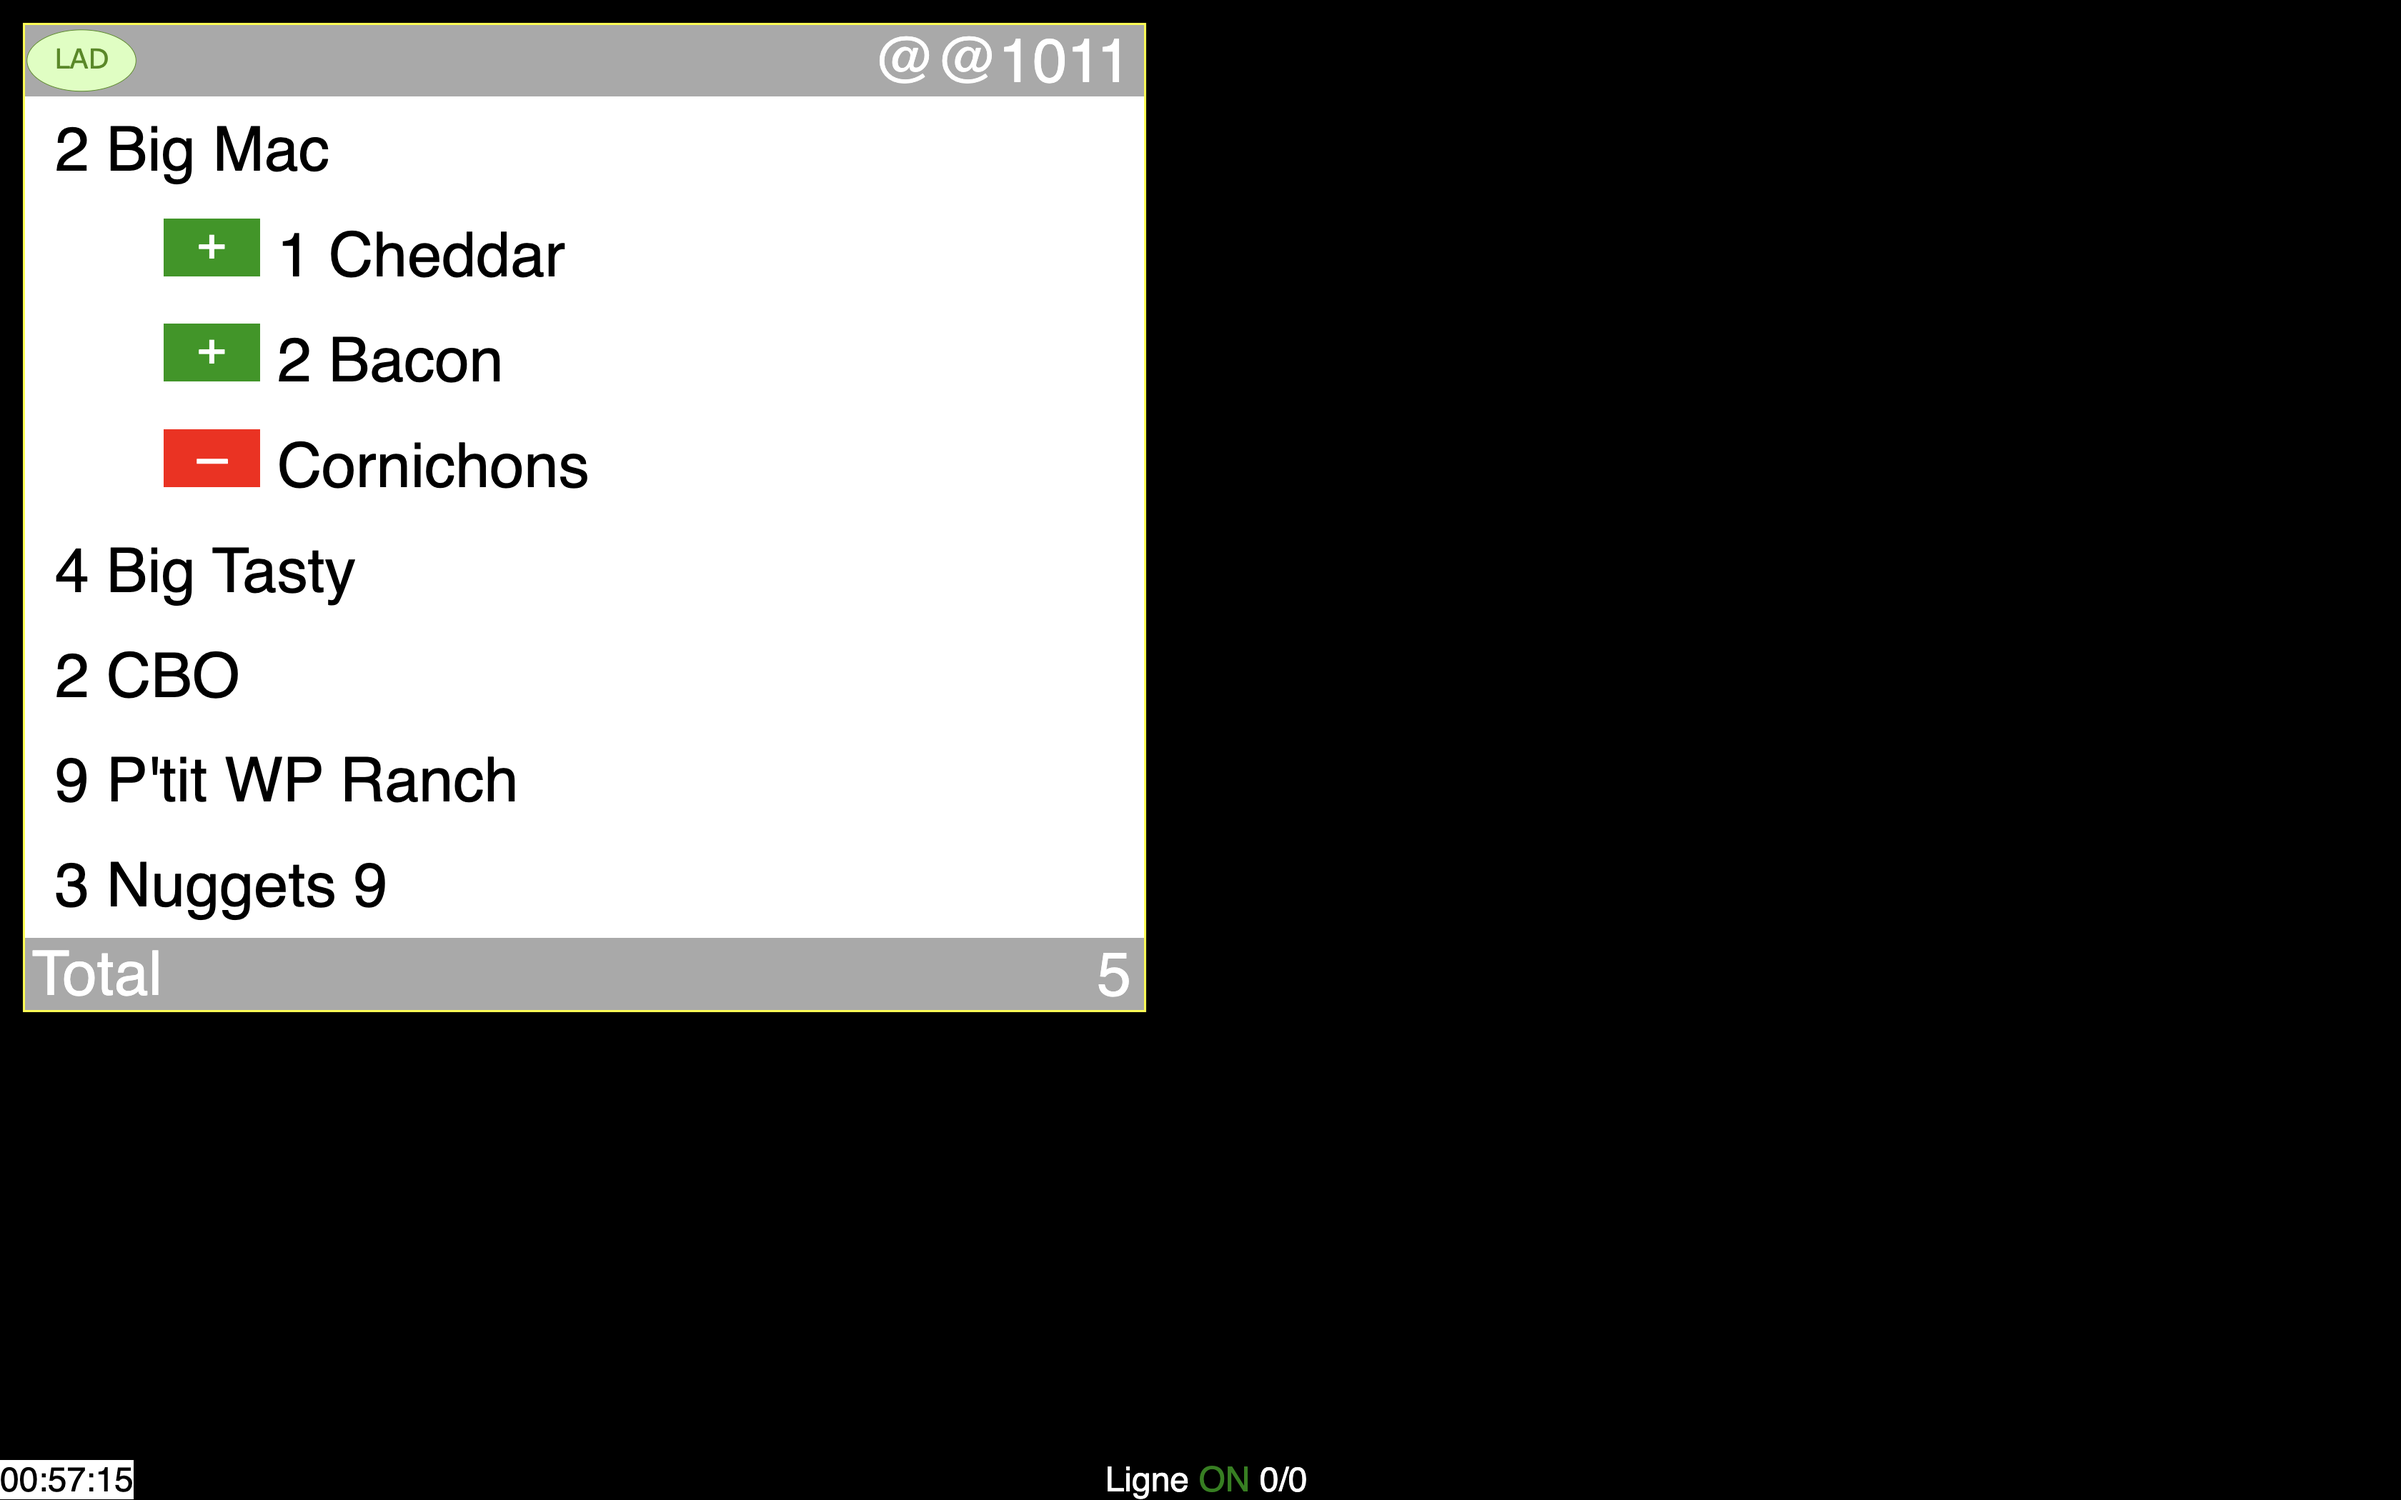
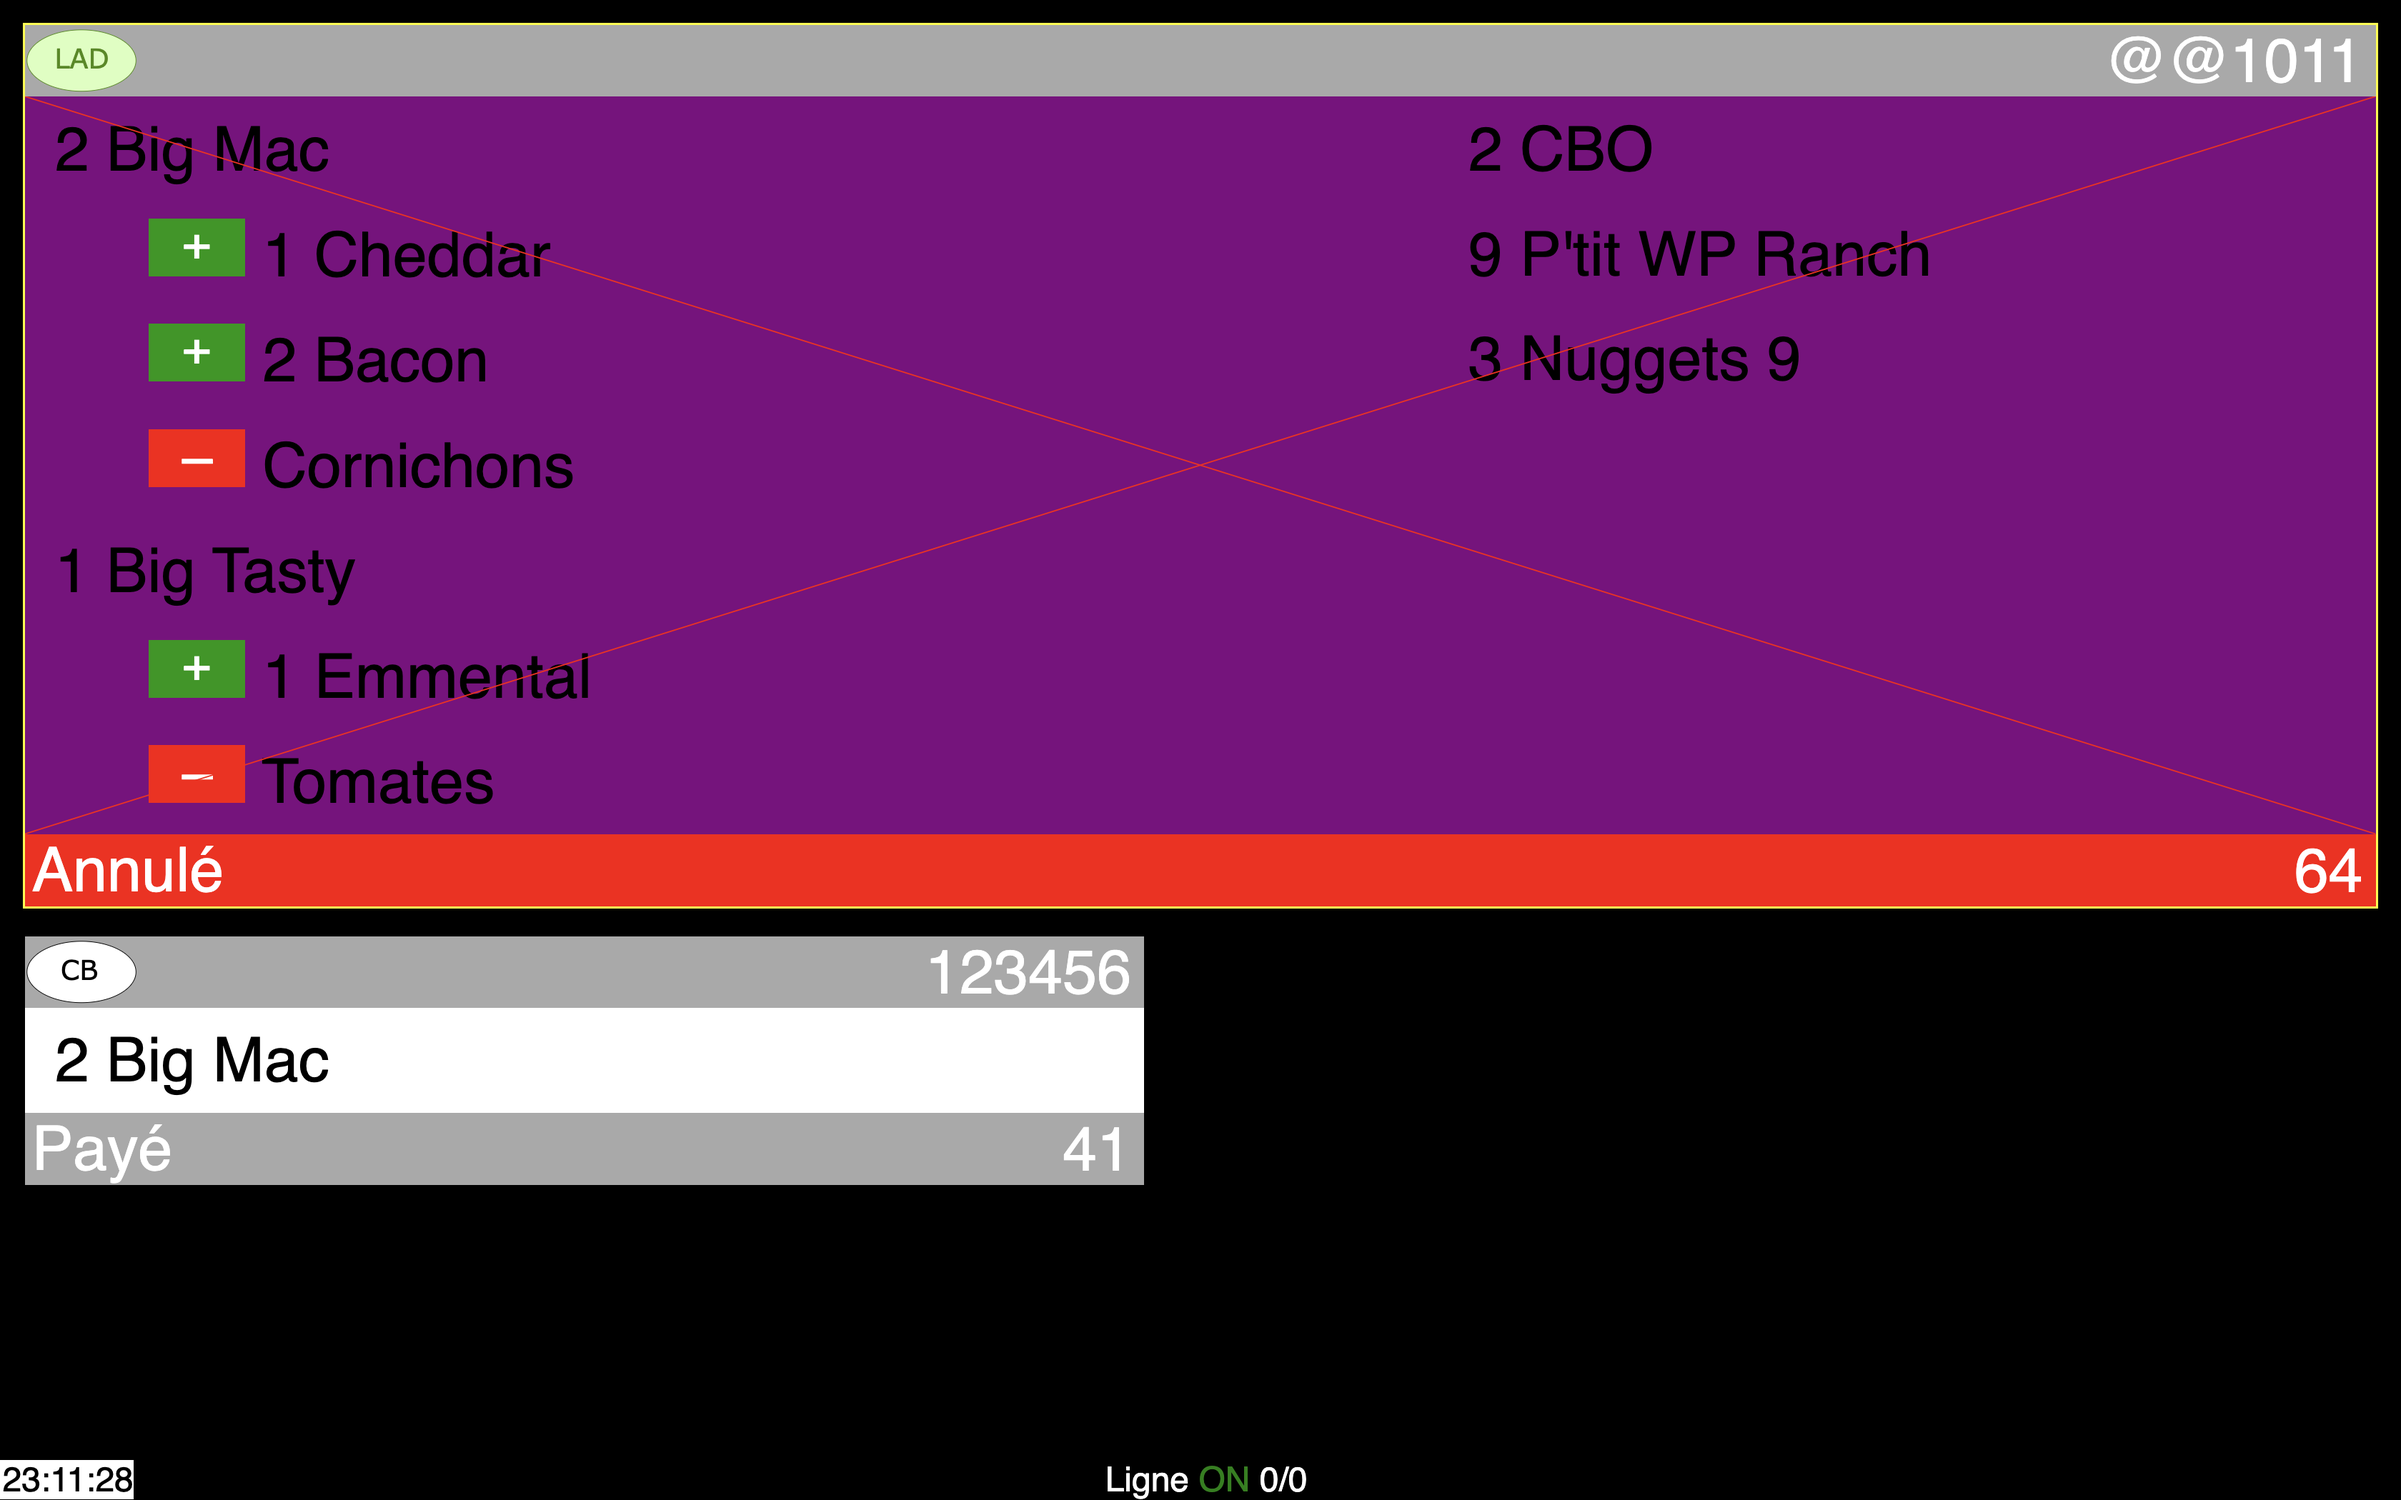
Screenshots added

diff --git a/README.md b/README.md
@@ -18,11 +18,16 @@ OrderL1 is a server-client system built with Node.js and Socket.IO to manage and
   ![Front when order is sent](screenshots/2.png)
 
   
-  ![Front when server is off](screenshots/3.png)
+  ![Front when 2 orders are sent](screenshots/3.png)
   
-  ![Addons & without](screenshots/4.png)
+  ![Example](screenshots/4.png)
 
-  ![Front when order is cancelled](screenshots/5.png)
+  ![Recall when order is cancelled](screenshots/5.png)
+
+  ![Recall when order is paid](screenshots/6.png)
+
+  ![Recall when server is not working](screenshots/7.png)
+
 
 
 ## Usage
